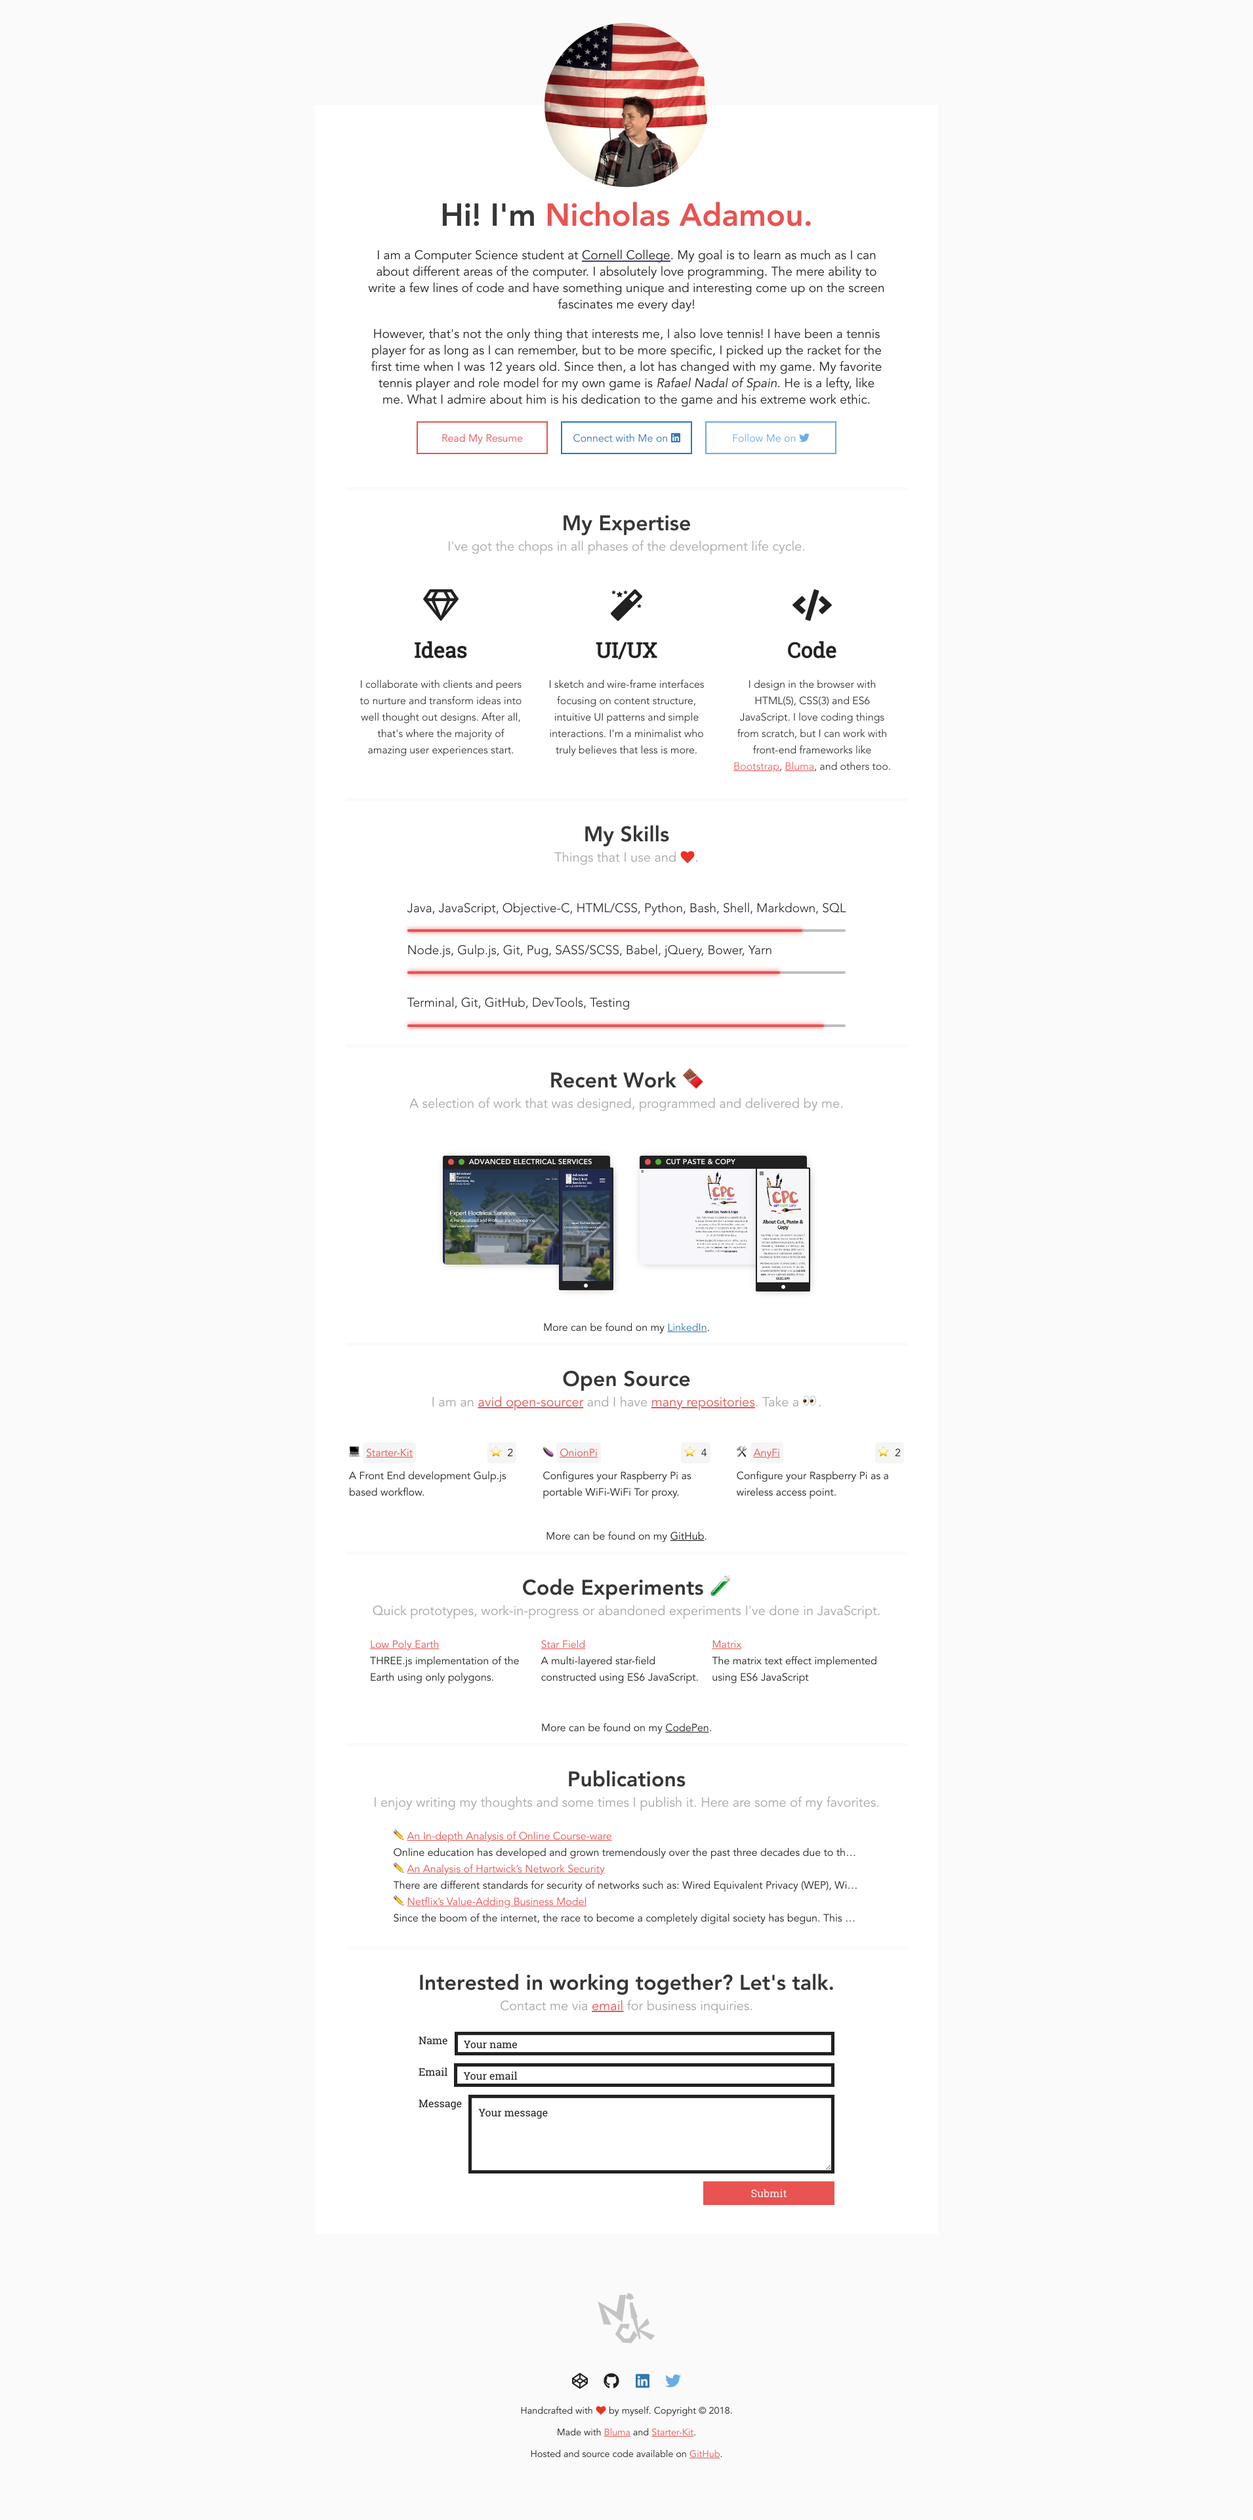
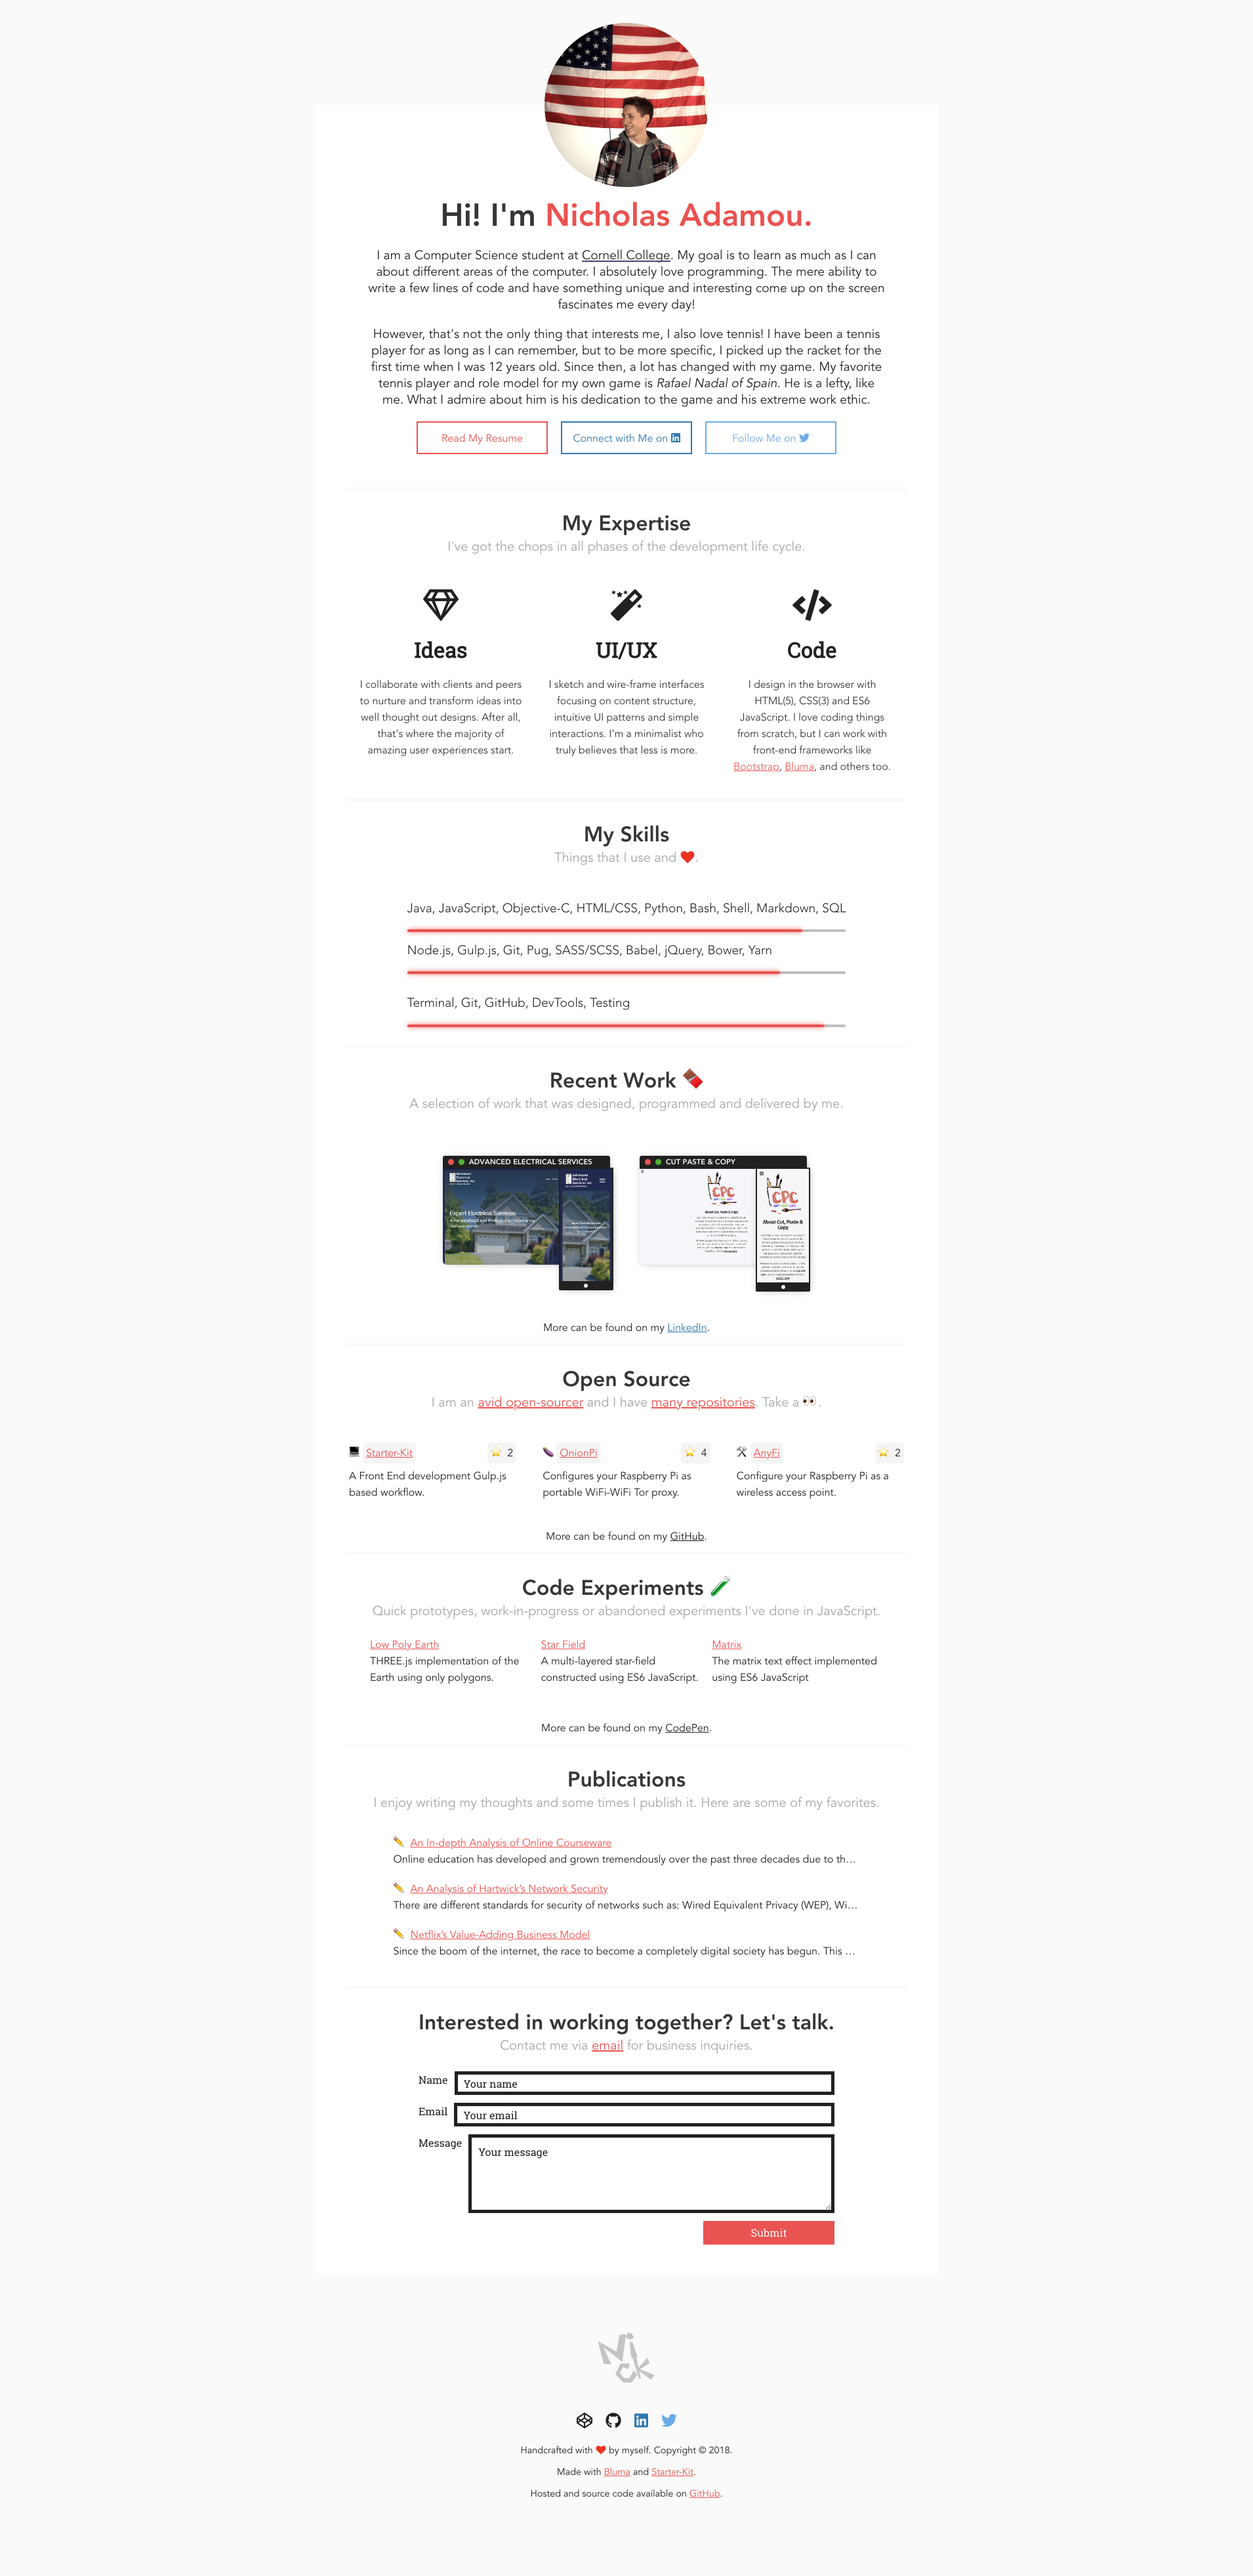
fixed a few issues with the publication section

diff --git a/src/sass/modules/_publication.scss b/src/sass/modules/_publication.scss
@@ -5,6 +5,8 @@
 	width: 90%;
 	max-width: 100%;
 
+	margin: 10px auto;
+
 	overflow: hidden;
 
 	@include until($iphone-7) {
@@ -13,6 +15,10 @@
 
 		width: 100%;
 		max-width: 100%;
+	}
+
+	.emoji {
+		margin-right: 5px;
 	}
 
 	.link {
